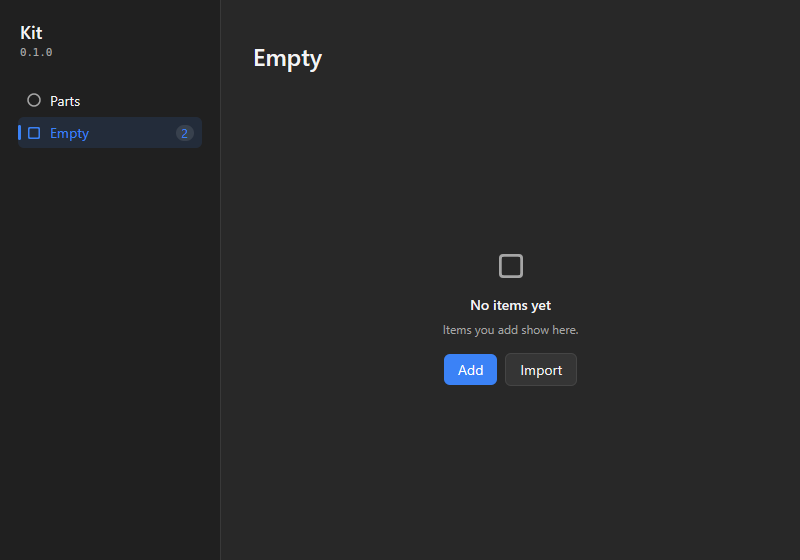
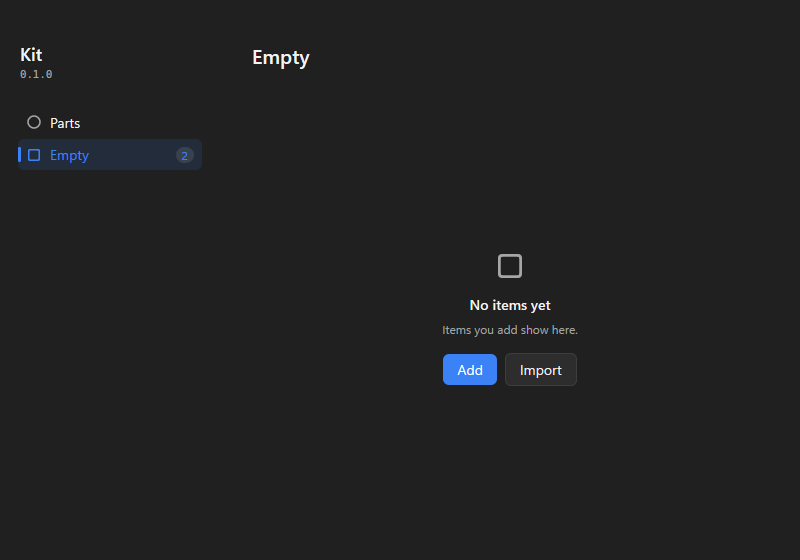
Put the sidebar and page on the window's material, take the desktop's accent and add Link

diff --git a/shell.go b/shell.go
@@ -2,20 +2,21 @@ package kit
 
 import "github.com/egoist/mygo/ui"
 
-// Shell lays out a main window: the sidebar, which runs to the top edge,
-// and beside it the page, under the system's window buttons. The band the
-// buttons are in moves the window.
+// Shell lays out a main window: the sidebar and beside it the page, both
+// on the window's material, below the band of the system's window buttons,
+// which moves the window. The app's name and the page's title share a line.
 func Shell(c *ui.Context, sidebar, page func()) {
-	t := c.Theme()
 	bar := c.TitleBar()
 	ui.Row(c).Fill().AlignItems(ui.Stretch).Children(func() {
-		top := float32(16)
+		// The header's padding and the title's taller row put both on the
+		// same line.
+		top := Top(c) + 2
 		if bar.Left > 0 {
 			// macOS' window buttons are over the sidebar.
 			top = bar.Bottom + 8
 		}
 		ui.Column(c).Width(SidebarWidth).Shrink(0).Padding(top, 8, 16).Gap(8).Children(sidebar)
-		ui.Column(c).Grow(1).MinWidth(0).Background(layer(t)).BorderWidth(0, 0, 0, 1).BorderColor(t.Border).ClipY().Children(func() {
+		ui.Column(c).Grow(1).MinWidth(0).ClipY().Children(func() {
 			page()
 			ui.Box(c).Absolute().Top(0).Left(0).Right(bar.Right).Height(bar.Height).DragWindow()
 		})
@@ -39,9 +40,8 @@ func SidebarHeader(c *ui.Context, name, detail string) ui.Element {
 }
 
 // NavItem is an item of a ui.Sidebar. The chosen one is tinted with the
-// accent and marked with a pill, as Windows' Settings mark theirs; MyGo
-// would fill it with the accent while the list has the focus. extra adds
-// to the item's end, as a badge.
+// accent and marked with a pill; MyGo would fill it with the accent while
+// the list has the focus. extra adds to the item's end, as a badge.
 func NavItem(c *ui.Context, id string, icon *ui.SVG, label string, chosen bool, extra func()) ui.Element {
 	t := c.Theme()
 	item := *t
@@ -67,10 +67,8 @@ func NavItem(c *ui.Context, id string, icon *ui.SVG, label string, chosen bool, 
 	})
 }
 
-// Top is the room above a page's title: below the window buttons.
-func Top(c *ui.Context) float32 {
-	return max(pageTop, c.TitleBar().Height+4)
-}
+// Top is the room above a page's title: the band of the window buttons.
+func Top(c *ui.Context) float32 { return max(c.TitleBar().Height, 8) + 4 }
 
 // Page is a page that scrolls, its content one column as wide as the
 // window. Pages that hold a table or an editor lay out their own, with a
@@ -81,10 +79,11 @@ func Page(c *ui.Context, body func()) ui.Element {
 	})
 }
 
-// NarrowPage is a Page whose content grows no wider than ContentWidth, for
-// pages of settings, whose rows read badly when far apart.
+// NarrowPage is a Page whose content grows no wider than ContentWidth, in
+// the middle of a wider window, for pages of settings, whose rows read
+// badly when far apart.
 func NarrowPage(c *ui.Context, body func()) ui.Element {
-	return ui.Scroll(c).Grow(1).Padding(Top(c), PageSide, PageSide).Children(func() {
+	return ui.Scroll(c).Grow(1).Padding(Top(c), PageSide, PageSide).AlignItems(ui.Center).Children(func() {
 		ui.Column(c).Gap(12).FillWidth().MaxWidth(ContentWidth).Children(body)
 	})
 }

diff --git a/accent_windows.go b/accent_windows.go
@@ -1,0 +1,51 @@
+package kit
+
+import (
+	"sync"
+	"syscall"
+	"time"
+
+	"github.com/egoist/mygo/ui"
+)
+
+// uiFont is Windows 11's own, which WinUI's text is in; Windows 10 lacks
+// it and DirectWrite falls back to Segoe UI.
+const uiFont = "Segoe UI Variable Text"
+
+var (
+	paletteMu   sync.Mutex
+	paletteAt   time.Time
+	paletteLast palette
+	paletteOK   bool
+)
+
+// desktopPalette reads Explorer's AccentPalette, at most once a second, as
+// the view asks each frame and the user may change the accent meanwhile.
+func desktopPalette() (palette, bool) {
+	paletteMu.Lock()
+	defer paletteMu.Unlock()
+	if time.Since(paletteAt) < time.Second {
+		return paletteLast, paletteOK
+	}
+	paletteAt = time.Now()
+	paletteLast, paletteOK = readPalette()
+	return paletteLast, paletteOK
+}
+
+func readPalette() (palette, bool) {
+	var key syscall.Handle
+	path, _ := syscall.UTF16PtrFromString(`Software\Microsoft\Windows\CurrentVersion\Explorer\Accent`)
+	if syscall.RegOpenKeyEx(syscall.HKEY_CURRENT_USER, path, 0, syscall.KEY_READ, &key) != nil {
+		return palette{}, false
+	}
+	defer syscall.RegCloseKey(key)
+	name, _ := syscall.UTF16PtrFromString("AccentPalette")
+	var b [32]byte
+	n := uint32(len(b))
+	var kind uint32
+	if syscall.RegQueryValueEx(key, name, nil, &kind, &b[0], &n) != nil || kind != syscall.REG_BINARY || n < 28 {
+		return palette{}, false
+	}
+	c := func(i int) ui.Color { return ui.RGBA(b[i*4], b[i*4+1], b[i*4+2], 1) }
+	return palette{c(0), c(1), c(2), c(3), c(4), c(5), c(6)}, true
+}

diff --git a/kit.go b/kit.go
@@ -13,18 +13,16 @@ const (
 	SidebarWidth = 220
 	// PageSide is the room beside a page's content.
 	PageSide = 32
-	// TitleSize is the size of a page's title.
-	TitleSize = 24
 	// PanelRadius rounds cards and panels; controls inside them take the
 	// theme's smaller one.
-	PanelRadius = 10
+	PanelRadius = 12
+	// TitleSize is the size of a page's title.
+	TitleSize = 20
 	// RowMinHeight is a setting row's height with a one-line label.
 	RowMinHeight = 56
 	// ContentWidth is the widest a NarrowPage's content grows, so that a
 	// row's label and its control stay within one glance.
 	ContentWidth = 1120
-	// pageTop is the room above a page's title where nothing else is.
-	pageTop = 20
 )
 
 // Window gives a main window its frame: no title bar, the system's window
@@ -60,14 +58,7 @@ func Apply(c *ui.Context) {
 		t.Warning = ui.Hex("#9d5d00")
 		t.Success = ui.Hex("#0f7b0f")
 	}
+	applyAccent(&t)
+	t.Font = uiFont
 	c.SetTheme(&t)
-}
-
-// layer is the color of the pages' side of the window, one step above the
-// sidebar's.
-func layer(t *ui.Theme) ui.Color {
-	if t.Dark {
-		return ui.Hex("#3a3a3a").Alpha(.3)
-	}
-	return ui.Hex("#ffffff").Alpha(.5)
 }

diff --git a/accent.go b/accent.go
@@ -1,0 +1,29 @@
+package kit
+
+import "github.com/egoist/mygo/ui"
+
+// palette is the shades the desktop makes of its accent, lightest first,
+// as Windows 11 keeps them for its own controls.
+type palette struct {
+	light3, light2, light1, base, dark1, dark2, dark3 ui.Color
+}
+
+// lookupPalette returns the desktop's palette, false where there is none.
+// Tests replace it, so that their pictures do not follow the desktop.
+var lookupPalette = desktopPalette
+
+// applyAccent gives t the accent Windows 11's controls take: the second
+// darker shade in the light, the second lighter in the dark, with black
+// text on it there. The accent the desktop reports is the base shade,
+// lighter than what Windows fills a control with.
+func applyAccent(t *ui.Theme) {
+	p, ok := lookupPalette()
+	if !ok {
+		return
+	}
+	a, text := p.dark1, ui.Hex("#ffffff")
+	if t.Dark {
+		a, text = p.light2, ui.Hex("#000000")
+	}
+	t.Accent, t.AccentHover, t.AccentPressed, t.AccentText = a, a.Alpha(.9), a.Alpha(.8), text
+}

diff --git a/surface.go b/surface.go
@@ -2,16 +2,14 @@ package kit
 
 import "github.com/egoist/mygo/ui"
 
-// Surface styles a raised box: a fill one step above the page and no
-// outline, but a ring. In the light the ring is dark, with a faint shadow,
-// where a white surface on a near-white page would not show; in the dark
-// it is a little lighter than the surface, as a shadow would not show.
+// Surface styles a raised box: a fill one step above the window and a
+// faint ring, darker in the light and lighter in the dark, no shadow.
 func Surface(e ui.Element, t *ui.Theme) ui.Element {
-	e = e.Radius(PanelRadius).Background(t.Surface)
+	ring := ui.RGBA(0, 0, 0, .06)
 	if t.Dark {
-		return e.Shadow(0, 0, 0, 1, ui.RGBA(255, 255, 255, .06))
+		ring = ui.RGBA(255, 255, 255, .07)
 	}
-	return e.Shadow(0, 0, 0, 1, ui.RGBA(0, 0, 0, .07)).Shadow(0, 1, 3, 0, ui.RGBA(0, 0, 0, .05))
+	return e.Radius(PanelRadius).Background(t.Surface).Shadow(0, 0, 0, 1, ring)
 }
 
 // Card is a surface that holds anything.

diff --git a/text.go b/text.go
@@ -16,6 +16,16 @@ func Heading(c *ui.Context, s string) ui.Element {
 // that it holds its width.
 func Figure(e ui.Element) ui.Element { return e.FontFeatures("tnum") }
 
+// Link is ui.Link, lighter on a dark surface, where Windows' accent is too
+// deep for text.
+func Link(c *ui.Context, label, url string) ui.Element {
+	e := ui.Link(c, label, url)
+	if t := c.Theme(); t.Dark {
+		e.TextColor(t.Accent.Mix(ui.Hex("#ffffff"), .45))
+	}
+	return e
+}
+
 // Back leads from a page to the one it opened from.
 type Back struct {
 	// Parent is the title of the page it leads to.

diff --git a/kit_test.go b/kit_test.go
@@ -11,6 +11,9 @@ import (
 	"github.com/egoist/mygo/ui"
 )
 
+// The pictures do not follow the desktop's accent.
+func init() { lookupPalette = func() (palette, bool) { return palette{}, false } }
+
 var (
 	iconCircle = Icon(`<circle cx="12" cy="12" r="9"/>`)
 	iconSquare = Icon(`<rect x="4" y="4" width="16" height="16" rx="2"/>`)

diff --git a/accent_other.go b/accent_other.go
@@ -1,0 +1,7 @@
+//go:build !windows
+
+package kit
+
+const uiFont = ""
+
+func desktopPalette() (palette, bool) { return palette{}, false }

diff --git a/DESIGN.md b/DESIGN.md
@@ -11,9 +11,10 @@ a rule needs one.
 
 - A main window has no title bar: `kit.Window` hides it, keeps the
   system's window buttons over the page and puts Mica behind the window.
-- `kit.Shell` lays it out: the sidebar runs to the top edge, the page is
-  beside it on a lighter layer with a hairline between them. The band under
-  the window buttons and the sidebar's header move the window.
+- `kit.Shell` lays it out: the sidebar and the page side by side on the
+  window's material, nothing between them, below the band of the window
+  buttons. The app's name and the page's title share a line. The band and
+  the sidebar's header move the window.
 - `kit.Apply` comes first in the view. Colors come from the theme it sets,
   never from a hex value in a page.
 - A main window keeps its size and place (`StateKey`), and the app runs one
@@ -69,14 +70,18 @@ a rule needs one.
 
 ## Color
 
-- Layers are told apart by fill, one step at a time: window, page layer,
-  surface. Raised surfaces have no outline; in the light they have a dark ring
-  and a faint shadow, in the dark a ring a little lighter than the surface.
+- Two layers: the window's material, and surfaces on it, a step lighter
+  with a faint dark ring and no shadow, as Settings' cards.
 - Shadows are for what floats: menus, popups, dialogs, toasts.
+- The accent is the desktop's, in the shades Windows 11's own controls
+  use: the deeper one in the light, the lighter one, with black text on
+  it, in the dark (`kit.Apply`).
 - The accent marks what is chosen or on, and the one action that matters
   on a screen (`ui.PrimaryButton`). Not headings, not icons, not borders.
 - Red, amber and green mean failed, in progress and fine. Nothing else uses
-  them.
+  them: a star or a flag the user sets is in the text's color.
+- An item not yet read, as a message, is marked with a dot in the accent,
+  as Mail and Outlook mark it.
 
 ## Shape
 
@@ -86,11 +91,13 @@ a rule needs one.
 
 ## Text
 
-- The theme's size for text, 12 for `kit.Muted` details, 18 for the app's
+- Text is in Segoe UI Variable on Windows 11. The theme's size for text,
+  12 for `kit.Muted` details, 18 for the app's
   name, `kit.TitleSize` for a page's title. Weight 600 for titles and
-  headings only.
+  headings only, and for an item not yet read, beside its dot.
 - A number that changes in place is a `kit.Figure`, so it keeps its width.
 - Code, paths and identifiers are in a monospaced face.
+- Links are `kit.Link`, which keeps the accent legible on the dark.
 
 ## Controls
 
@@ -134,7 +141,8 @@ a rule needs one.
 
 - Left click shows the main window, opening it if it is closed. Right click
   opens the menu. Nothing waits for a double click. `desk.Tray` does
-  this and takes the icon away when the app quits.
+  this and takes the icon away when the app quits. An app with no main
+  window opens the menu on either click.
 - An app with no main window in that mode (a background task that asks
   something) shows a flyout on a left click instead (`mygo.NewFlyout`),
   with a button that opens the app's window.
